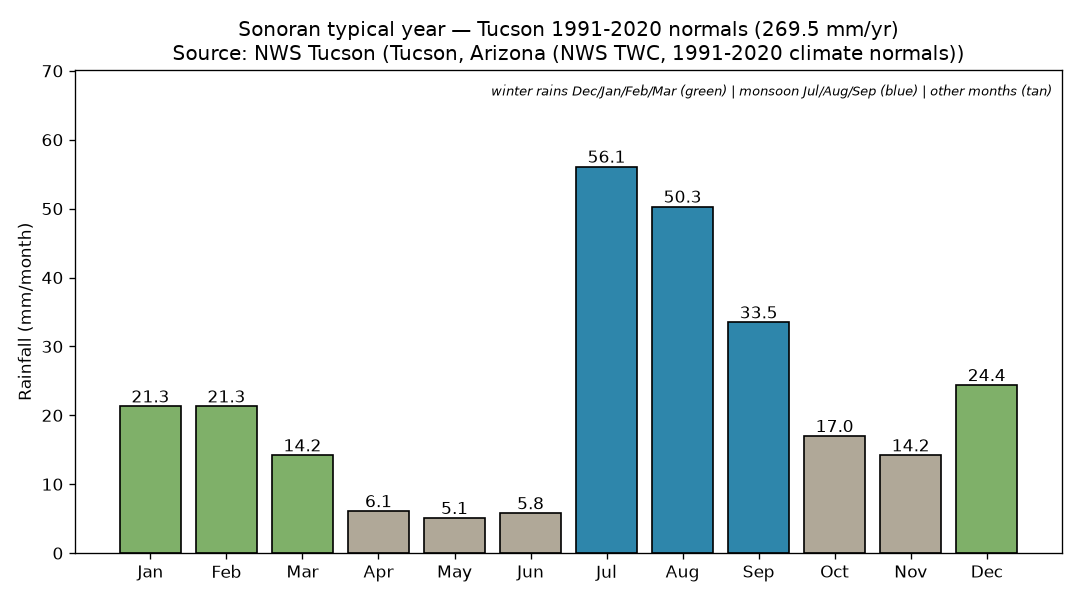
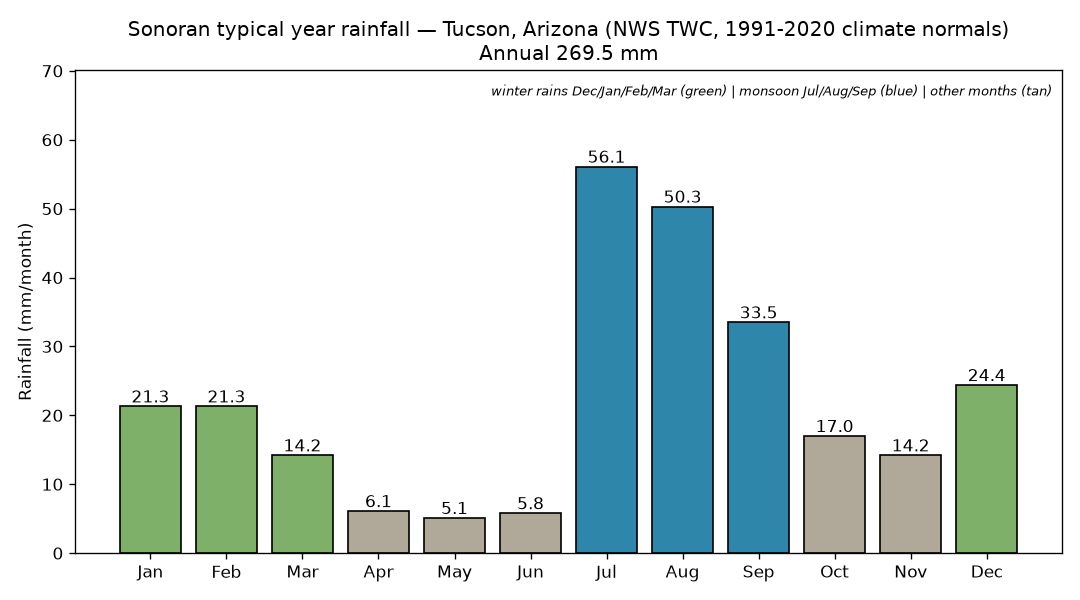
feat(6): cubic full-review round - numeric survival/taproot, season-driven title, validator hardening

Changed region(s): [[0.1222, 0.03, 0.9472, 0.12]]

diff --git a/scripts/validate_sonoran.py b/scripts/validate_sonoran.py
@@ -15,11 +15,13 @@ m = json.loads((ROOT / "data/mesquite.json").read_text())
 check(r.get("units") == "mm/month", "rainfall units are mm/month")
 check(len(r.get("rainfall_mm", [])) == 12, "rainfall_mm has 12 values")
 check(len(r.get("months", [])) == 12, "months has 12 labels")
+check(len(set(r.get("months", []))) == 12, "month labels are 12 unique names (season lookups use .index)")
 check(all(v >= 0 for v in r["rainfall_mm"]), "all rainfall values >= 0")
-check(abs(sum(r["rainfall_mm"]) - r["annual_mm"]) < 1.5, f"annual_mm {r['annual_mm']} ~= sum {sum(r['rainfall_mm']):.1f}")
+check(abs(sum(r["rainfall_mm"]) - r["annual_mm"]) < 0.5, f"annual_mm {r['annual_mm']} ~= sum {sum(r['rainfall_mm']):.1f} (12 values rounded to 0.1 mm)")
 check("weather.gov" in r.get("source", ""), "rainfall cites NWS source with URL")
 check(len(r.get("rainfall_in", [])) == 12, "rainfall_in has 12 source values")
 check(abs(sum(r["rainfall_in"]) - r["annual_in"]) < 0.05, "annual_in matches monthly sum")
+check(all(abs(mm - inch * 25.4) < 0.06 for mm, inch in zip(r["rainfall_mm"], r["rainfall_in"])), "each rainfall_mm matches rainfall_in x25.4 (0.1 mm rounding)")
 # monsoon peak check (seasons["monsoon"] months dominate)
 monsoon_months = r.get("seasons", {}).get("monsoon", ["Jul", "Aug", "Sep"])
 monsoon = sum(r["rainfall_mm"][r["months"].index(m)] for m in monsoon_months)
@@ -38,6 +40,8 @@ seasons = r.get("seasons", {})
 check(sorted(sum([seasons.get(k, []) for k in ("winter_rains", "foresummer_drought", "monsoon", "autumn")], [])) == sorted(r.get("months", [])), "seasons partition all 12 months exactly once")
 surv = g.get("extensions", {}).get("survival", {})
 check(set(r.get("months", [])) - set(surv.get("optimal_plant_months", [])) == {"Apr", "May", "Jun"} and "plant_in_foresummer_penalty" in surv, "every month has a defined survival effect (optimal except Apr-Jun penalty)")
+check(surv.get("foresummer_survival_multiplier") == 0.6 and set(surv.get("foresummer_penalty_months", [])) == {"Apr", "May", "Jun"}, "foresummer penalty is a numeric 0.6 multiplier on Apr-Jun")
+check(isinstance(m.get("taproot_m"), (int, float)), "taproot_m is a numeric metric (qualifier in taproot_note)")
 
 info = (ROOT / "docs/sonoran_info.md").read_text().lower()
 for kw in ["best time to plant", "problems", "strategies", "monsoon", "caliche"]:
@@ -45,6 +49,7 @@ for kw in ["best time to plant", "problems", "strategies", "monsoon", "caliche"]
 
 chart = ROOT / "docs/evidence/6/rainfall_chart.png"
 check(chart.exists() and chart.stat().st_size > 5000, "evidence chart PNG exists and non-trivial")
+check(chart.exists() and chart.stat().st_mtime >= (ROOT / "data/sonoran_rainfall.json").stat().st_mtime, "evidence chart is newer than the rainfall data (regenerate after data changes)")
 
 print(f"\n{'ALL CHECKS PASSED' if not fails else f'{len(fails)} FAILURES'}")
 sys.exit(1 if fails else 0)

diff --git a/scripts/plot_rainfall.py b/scripts/plot_rainfall.py
@@ -1,4 +1,7 @@
-"""Generate docs/evidence/6/rainfall_chart.png FROM data/sonoran_rainfall.json (no hardcoded numbers)."""
+"""Generate docs/evidence/6/rainfall_chart.png FROM data/sonoran_rainfall.json (no hardcoded numbers).
+
+Requires matplotlib: pip install matplotlib
+"""
 import json
 from pathlib import Path
 import matplotlib
@@ -18,7 +21,7 @@ fig, ax = plt.subplots(figsize=(9, 5))
 bars = ax.bar(months, vals, color=colors, edgecolor="black")
 ax.bar_label(bars, fmt="%.1f")
 ax.set_ylabel("Rainfall (mm/month)")
-ax.set_title(f"Sonoran typical year — Tucson 1991-2020 normals ({data['annual_mm']} mm/yr)\nSource: NWS Tucson ({data['station']})")
+ax.set_title(f"Sonoran typical year rainfall — {data['station']}\nAnnual {data['annual_mm']} mm")
 ax.set_ylim(0, max(vals) * 1.25)
 ax.text(0.99, 0.97, f"winter rains {'/'.join(seasons['winter_rains'])} (green) | monsoon {'/'.join(seasons['monsoon'])} (blue) | other months (tan)",
         transform=ax.transAxes, ha="right", va="top", fontsize=8, style="italic")

diff --git a/docs/sonoran_info.md b/docs/sonoran_info.md
@@ -10,7 +10,8 @@ Station: Tucson Intl Airport area; cross-check NOAA U.S. Climate Normals.
 - **Winter rains (Dec–Mar, ~80 mm total):** Gentle Pacific frontal storms.
   Cool (highs 65–76 °F), best soil moisture of the year. Light but reliable.
 - **Foresummer drought (Apr–Jun):** Hottest, driest stretch. Highs 83–101 °F,
-  almost no rain (~17 mm total). New plantings die without irrigation.
+  almost no rain (~17 mm total). Unirrigated new plantings face severe
+  establishment stress — mesquite establishes ~40% worse without extra watering.
 - **Monsoon (Jul–Sep, ~140 mm, over half the annual total):** Intense
   afternoon thunderstorms, flash floods, dust storms, extreme heat (highs 95–100 °F).
   Most effective planting window — heat + water together.
@@ -23,7 +24,7 @@ Station: Tucson Intl Airport area; cross-check NOAA U.S. Climate Normals.
    warm soil + coming rains = fast root growth. Dig basins/swales BEFORE the
    storms so runoff soaks in. Note: June is still in the Apr–Jun penalty
    window (poor establishment without extra watering) — wait for July.
-2. **Post-monsoon / fall (Sep–Oct)** — second best: warm soil, milder air,
+2. **Late monsoon into fall (Sep–Oct)** — second best: warm soil, milder air,
    stored soil moisture; roots establish over winter.
 3. **Late winter (Feb–Mar)** — third: cool-season moisture still in soil;
    plant early enough to root before the Apr–Jun drought.
@@ -35,8 +36,8 @@ heat-lovers, fall/winter for cool-season annuals and perennials.
 
 ## Typical problems
 
-- **Foresummer desiccation:** Apr–Jun kills unirrigated seedlings; even mature
-  trees stress. Symptom: leaf drop, scorched margins.
+- **Foresummer desiccation:** Apr–Jun causes severe losses in unirrigated
+  seedlings; even mature trees stress. Symptom: leaf drop, scorched margins.
 - **Monsoon washouts:** Intense cells erode swales/berms, drown seedlings in
   pooling clay, snap weak limbs (microbursts).
 - **Caliche & poor infiltration:** Cemented calcium layer blocks roots and
